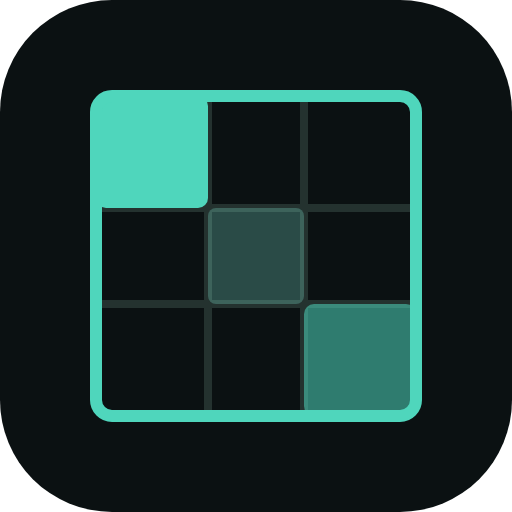
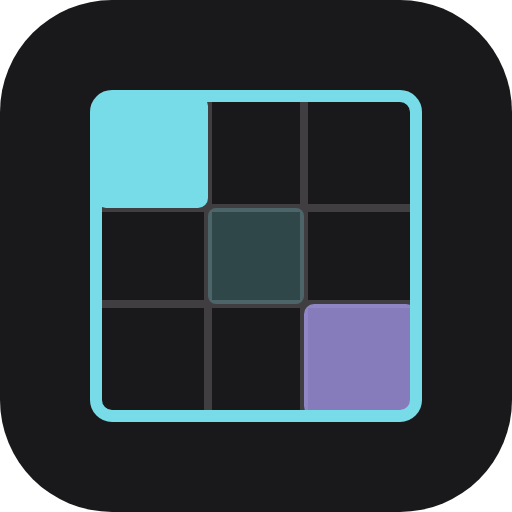
Paleta Monokai Pro, zapisana w jednym miejscu
Interfejs przechodzi z chłodnej zieleni na Monokai Pro: ciepłą, lekko fioletową
ciemność z cyjanem jako akcentem zaznaczenia i uchwytów, różem dla błędów,
pomarańczem dla ostrzeżeń i zielenią dla stanu dobrego. Fiolet dostały obrysy
obiektów bez własnej grafiki, żeby nie myliły się z zaznaczeniem.

Przy okazji naprawiona przyczyna, dla której taka zmiana była ryzykowna: kolory
mieszkały w siedmiu miejscach naraz - tokeny CSS, siedemnaście literałów w
rendererze, manifest, meta strony, ikony PWA i ikony Androida. Teraz jedynym
źródłem jest blok @theme w styles.css, a theme.ts odczytuje te same custom
properties w czasie działania i podaje je Pixi jako liczby. W rendererze zostały
dwa literały: czarna siatka, celowo neutralna wobec każdego tilesetu, i maska
bitowa gid, która kolorem nie jest.

Blok musi być @theme static. Zwykłe @theme wycina tokeny, których nie używa
żadna klasa Tailwinda, i po cichu ukryło --color-shape przed płótnem - kolor
działał tylko z wartości zapasowej w theme.ts.

Dwie usterki znalezione po obejrzeniu zrzutów:

- Podmieniając blok @theme skasowałem definicje --breakpoint-md i
  --breakpoint-wide, przez co cały trójstopniowy układ przestał działać: panel
  miał 240 px zamiast 300 przy szerokości 1400, a etykieta Ctrl K znikła.
  Przywrócone, wszystkie trzy progi zweryfikowane pomiarem.
- Wiersz obrotu obiektu mieścił cztery przyciski i pole liczbowe w jednej
  linii, przez co pole zapadało się do zera. Teraz przyciski są w siatce, a
[…]

Changed region(s): [[0.1562, 0.1562, 0.8438, 0.8438]]

diff --git a/packages/ui/src/render/pixi-renderer.ts b/packages/ui/src/render/pixi-renderer.ts
@@ -5,6 +5,7 @@ import {
   type Anchor, type Box, type HandleId, type Layer, type MapObject, type TileMap,
 } from '@tile-editor/core'
 import type { RenderOptions, TileRenderer } from './renderer'
+import { canvasTheme } from '../theme'
 import { tileObjectAnchor, tilesetOf, type TileSourceIndex } from './tile-source'
 
 /**
@@ -225,11 +226,11 @@ export class PixiTileRenderer implements TileRenderer {
   /** Tiled colours an object layer through an optional `color` attribute. */
   private layerColor(layer: { extra?: Record<string, unknown> }): number {
     const raw = layer.extra?.color
-    if (typeof raw !== 'string') return 0x4fd6bc
+    if (typeof raw !== 'string') return canvasTheme.shape
     const hex = raw.replace('#', '')
     const rgb = hex.length === 8 ? hex.slice(2) : hex
     const value = Number.parseInt(rgb, 16)
-    return Number.isFinite(value) ? value : 0x4fd6bc
+    return Number.isFinite(value) ? value : canvasTheme.shape
   }
 
   /**
@@ -286,7 +287,7 @@ export class PixiTileRenderer implements TileRenderer {
   }
 
   private borrowLabel(): Text {
-    const label = this.labelPool.pop() ?? new Text({ text: '', style: { fontSize: 12, fill: 0xe7edec } })
+    const label = this.labelPool.pop() ?? new Text({ text: '', style: { fontSize: 12, fill: canvasTheme.ink } })
     label.visible = true
     return label
   }
@@ -381,10 +382,10 @@ export class PixiTileRenderer implements TileRenderer {
     this.background.clear()
     const w = map.width * map.tilewidth
     const h = map.height * map.tileheight
-    this.background.rect(0, 0, w, h).fill({ color: 0x0b1112, alpha: 0.85 })
+    this.background.rect(0, 0, w, h).fill({ color: canvasTheme.ground, alpha: 0.85 })
     const width = 1 / options.camera.zoom
     // The map's own edge is always worth showing, grid or not.
-    this.grid.rect(0, 0, w, h).stroke({ color: 0x4fd6bc, width: width * 1.5, alpha: 0.5 })
+    this.grid.rect(0, 0, w, h).stroke({ color: canvasTheme.accent, width: width * 1.5, alpha: 0.5 })
     if (!options.showGrid) return
 
     // A grid drawn at full strength over 16-pixel tiles washes the artwork out,
@@ -427,7 +428,7 @@ export class PixiTileRenderer implements TileRenderer {
       const h = (stamp?.height ?? 1) * map.tileheight
       this.overlay
         .rect(options.hover.x * map.tilewidth, options.hover.y * map.tileheight, w, h)
-        .stroke({ color: 0x4fd6bc, width: line, alpha: 0.9 })
+        .stroke({ color: canvasTheme.accent, width: line, alpha: 0.9 })
     }
 
     if (options.marquee) {
@@ -438,8 +439,8 @@ export class PixiTileRenderer implements TileRenderer {
       const height = (Math.abs(y1 - y0) + 1) * map.tileheight
       this.overlay
         .rect(left, top, width, height)
-        .fill({ color: 0x4fd6bc, alpha: 0.12 })
-        .stroke({ color: 0x4fd6bc, width: line })
+        .fill({ color: canvasTheme.accent, alpha: 0.12 })
+        .stroke({ color: canvasTheme.accent, width: line })
     }
 
     if (options.selectedObjectIds.length > 0) {
@@ -460,8 +461,8 @@ export class PixiTileRenderer implements TileRenderer {
       const { x0, y0, x1, y1 } = options.selectionRect
       this.overlay
         .rect(Math.min(x0, x1), Math.min(y0, y1), Math.abs(x1 - x0), Math.abs(y1 - y0))
-        .fill({ color: 0x4fd6bc, alpha: 0.1 })
-        .stroke({ color: 0x4fd6bc, width: line, alpha: 0.9 })
+        .fill({ color: canvasTheme.accent, alpha: 0.1 })
+        .stroke({ color: canvasTheme.accent, width: line, alpha: 0.9 })
     }
   }
 
@@ -503,7 +504,7 @@ export class PixiTileRenderer implements TileRenderer {
     const first = corners[0]!
     this.overlay.moveTo(first.x, first.y)
     for (const point of corners.slice(1)) this.overlay.lineTo(point.x, point.y)
-    this.overlay.closePath().stroke({ color: 0x4fd6bc, width })
+    this.overlay.closePath().stroke({ color: canvasTheme.accent, width })
     if (!withHandles) return
 
     // The stalk to the rotation handle, so it reads as attached to the box.
@@ -515,21 +516,21 @@ export class PixiTileRenderer implements TileRenderer {
     this.overlay
       .moveTo(topMid.x, topMid.y)
       .lineTo(rotateAt.x, rotateAt.y)
-      .stroke({ color: 0x4fd6bc, width: width * 0.6, alpha: 0.7 })
+      .stroke({ color: canvasTheme.accent, width: width * 0.6, alpha: 0.7 })
 
     const size = width * 3
     for (const handle of handlePositions(box, anchor, this.rotateOffset)) {
       if (handle.id === 'rotate') {
         this.overlay
           .circle(handle.point.x, handle.point.y, size * 0.9)
-          .fill({ color: 0x0b1112 })
-          .stroke({ color: 0x4fd6bc, width })
+          .fill({ color: canvasTheme.ground })
+          .stroke({ color: canvasTheme.accent, width })
         continue
       }
       this.overlay
         .rect(handle.point.x - size, handle.point.y - size, size * 2, size * 2)
-        .fill({ color: 0x0b1112 })
-        .stroke({ color: 0x4fd6bc, width })
+        .fill({ color: canvasTheme.ground })
+        .stroke({ color: canvasTheme.accent, width })
     }
   }
 

diff --git a/packages/ui/src/components/properties-panel.tsx b/packages/ui/src/components/properties-panel.tsx
@@ -12,6 +12,7 @@ import {
 } from '@tile-editor/core'
 import { Button, Empty, Field, Panel, Select, TextInput } from './ui'
 import { useEditor, type PropertyOwner } from '../state/store'
+import { themeColor } from '../theme'
 
 const TYPES: PropertyType[] = ['string', 'int', 'float', 'bool', 'color', 'file']
 
@@ -230,7 +231,9 @@ function PropertyValue({ prop, definition, onChange }: {
     )
   }
   if (prop.type === 'color') {
-    const value = typeof prop.value === 'string' && prop.value ? toHex(prop.value) : '#4fd6bc'
+    // An unset colour opens on the theme's accent rather than a colour written
+    // down a second time.
+    const value = typeof prop.value === 'string' && prop.value ? toHex(prop.value) : accentHex()
     return (
       <div className="flex items-center gap-2">
         <input
@@ -601,13 +604,23 @@ function ObjectHeader({ id }: { id: number }) {
         <Field label="Wysokość"><TextInput type="number" className="num" value={obj.height} onChange={(e) => patch({ height: Number(e.target.value) })} /></Field>
       </div>
       <Field label="Obrót (stopnie)">
-        <div className="flex items-center gap-1">
-          {[0, 90, 180, 270].map((deg) => (
-            <Button key={deg} size="sm" variant="outline" active={obj.rotation === deg} onClick={() => patch({ rotation: deg })}>
-              {deg}°
-            </Button>
-          ))}
-          <TextInput type="number" className="num flex-1" value={obj.rotation} onChange={(e) => patch({ rotation: Number(e.target.value) })} />
+        {/* Four preset buttons and a free field do not fit across a 240px panel;
+            squeezed onto one row the field collapsed to nothing. */}
+        <div className="flex flex-col gap-1.5">
+          <div className="grid grid-cols-4 gap-1">
+            {[0, 90, 180, 270].map((deg) => (
+              <Button key={deg} size="sm" variant="outline" active={obj.rotation === deg} onClick={() => patch({ rotation: deg })}>
+                {deg}°
+              </Button>
+            ))}
+          </div>
+          <TextInput
+            type="number"
+            aria-label="Obrót w stopniach"
+            className="num"
+            value={obj.rotation}
+            onChange={(e) => patch({ rotation: Number(e.target.value) })}
+          />
         </div>
       </Field>
       {obj.gid !== undefined ? (
@@ -776,6 +789,11 @@ function Stat({ label, value }: { label: string; value: string }) {
       <dd className="num text-right text-ink-dim">{value}</dd>
     </>
   )
+}
+
+/** The accent as a #rrggbb string, for inputs that will not take a token. */
+function accentHex(): string {
+  return '#' + themeColor('accent', 0x78dce8).toString(16).padStart(6, '0')
 }
 
 function uniqueName(props: Property[]): string {

diff --git a/packages/ui/src/styles.css b/packages/ui/src/styles.css
@@ -4,28 +4,43 @@
  * Editor palette. Dark-first, because that is where a map editor lives, with a
  * neutral biased slightly toward the accent so nothing reads as flat grey.
  */
-@theme {
-  --color-ground: #0b1112;
-  --color-surface: #121b1c;
-  --color-raised: #182325;
-  --color-hover: #1f2d2f;
-  --color-line: #24322f;
-  --color-line-strong: #33443f;
+/* `static` keeps every token in the output. Tailwind drops unused ones by
+   default, which silently hid --color-shape from the canvas. */
+@theme static {
+  /**
+   * Monokai Pro. A warm, slightly purple dark ramp with six saturated accents,
+   * rather than the cool grey most editors settle on. The neutrals below are
+   * the palette's own; only the three "deep" tones are derived, as backgrounds
+   * for accented chips that have to sit on --color-surface.
+   *
+   * This block is the only place a colour is written down. The canvas reads
+   * these same tokens at runtime through theme.ts, so the WebGL layer and the
+   * DOM cannot drift apart.
+   */
+  --color-ground: #19181a;
+  --color-surface: #2d2a2e;
+  --color-raised: #403e41;
+  --color-hover: #403e41;
+  --color-line: #3b383c;
+  --color-line-strong: #5b595c;
 
-  --color-ink: #e7edec;
-  --color-ink-dim: #a6b5b3;
-  --color-ink-faint: #6f807e;
+  --color-ink: #fcfcfa;
+  --color-ink-dim: #c1c0c0;
+  --color-ink-faint: #939293;
 
-  --color-accent: #4fd6bc;
-  --color-accent-deep: #0f3330;
-  --color-accent-ink: #7ce4cf;
+  --color-accent: #78dce8;
+  --color-accent-deep: #26383c;
+  --color-accent-ink: #a5e9f1;
 
-  --color-danger: #ee8195;
-  --color-danger-deep: #38191f;
-  --color-warn: #e0a552;
-  --color-warn-deep: #31250f;
-  --color-ok: #6fcb86;
-  --color-ok-deep: #122c19;
+  --color-danger: #ff6188;
+  --color-danger-deep: #3e222a;
+  --color-warn: #fc9867;
+  --color-warn-deep: #3b2a21;
+  --color-ok: #a9dc76;
+  --color-ok-deep: #2c3a24;
+
+  /** Outlines for objects with no art of their own, kept apart from selection. */
+  --color-shape: #ab9df2;
 
   /* Three tiers, chosen so a Galaxy Tab S7 keeps the docked layout in both
      orientations and only collapses its rails when turned upright. */

diff --git a/packages/ui/src/theme.ts b/packages/ui/src/theme.ts
@@ -1,0 +1,61 @@
+/**
+ * The canvas draws in WebGL and cannot use CSS, but the palette must not be
+ * written down twice: a second copy is a second thing to forget. These helpers
+ * read the same custom properties the stylesheet defines and hand them to Pixi
+ * as numbers.
+ *
+ * Values are cached after the first read. Call `forgetTheme()` if the tokens
+ * ever change at runtime, which they do not today.
+ */
+const cache = new Map<string, number>()
+
+function parse(value: string): number | undefined {
+  const text = value.trim()
+  if (text.startsWith('#')) {
+    const hex = text.slice(1)
+    const full = hex.length === 3 ? hex.replace(/./g, (c) => c + c) : hex
+    const parsed = Number.parseInt(full.slice(0, 6), 16)
+    return Number.isFinite(parsed) ? parsed : undefined
+  }
+  // Browsers may hand back a resolved rgb() instead of the authored hex.
+  const rgb = /rgba?\(\s*([\d.]+)[,\s]+([\d.]+)[,\s]+([\d.]+)/.exec(text)
+  if (!rgb) return undefined
+  const [r, g, b] = [rgb[1], rgb[2], rgb[3]].map((n) => Math.round(Number(n)))
+  return ((r ?? 0) << 16) | ((g ?? 0) << 8) | (b ?? 0)
+}
+
+/** One palette entry, by the name it has in the stylesheet without the prefix. */
+export function themeColor(token: string, fallback: number): number {
+  const cached = cache.get(token)
+  if (cached !== undefined) return cached
+  const raw =
+    typeof document === 'undefined'
+      ? ''
+      : getComputedStyle(document.documentElement).getPropertyValue(`--color-${token}`)
+  const value = parse(raw) ?? fallback
+  cache.set(token, value)
+  return value
+}
+
+export function forgetTheme(): void {
+  cache.clear()
+}
+
+/**
+ * Fallbacks matter only before the stylesheet has applied, and in tests that
+ * render without a document. They mirror the tokens in styles.css.
+ */
+export const canvasTheme = {
+  get ground(): number {
+    return themeColor('ground', 0x19181a)
+  },
+  get accent(): number {
+    return themeColor('accent', 0x78dce8)
+  },
+  get ink(): number {
+    return themeColor('ink', 0xfcfcfa)
+  },
+  get shape(): number {
+    return themeColor('shape', 0xab9df2)
+  },
+}

diff --git a/packages/ui/index.html b/packages/ui/index.html
@@ -3,7 +3,7 @@
   <head>
     <meta charset="utf-8" />
     <meta name="viewport" content="width=device-width, initial-scale=1, viewport-fit=cover, user-scalable=no" />
-    <meta name="theme-color" content="#0b1112" />
+    <meta name="theme-color" content="#19181a" />
     <meta name="mobile-web-app-capable" content="yes" />
     <meta name="apple-mobile-web-app-status-bar-style" content="black-translucent" />
     <link rel="manifest" href="/manifest.webmanifest" />

diff --git a/README.md b/README.md
@@ -187,6 +187,20 @@ będzie oferowana.
 Offline działa sama powłoka edytora. Pliki projektu czyta lokalny serwer, więc
 bez niego edytor otworzy się, ale nie pokaże map.
 
+## Paleta
+
+Interfejs korzysta z palety **Monokai Pro** — ciepła, lekko fioletowa ciemność
+zamiast chłodnej szarości, z cyjanem jako akcentem zaznaczenia i uchwytów.
+
+Kolory są zapisane **wyłącznie** w `packages/ui/src/styles.css`, w bloku
+`@theme static`. Płótno rysuje w WebGL i nie może użyć CSS-a, więc
+`packages/ui/src/theme.ts` odczytuje te same custom properties w czasie
+działania i podaje je Pixi jako liczby. Dzięki temu warstwa WebGL i DOM nie
+mogą się rozjechać, a zmiana motywu w przyszłości to jeden blok.
+
+`@theme static` jest tu istotne: zwykłe `@theme` wycina tokeny, których żadna
+klasa Tailwinda nie używa, i po cichu ukryło `--color-shape` przed płótnem.
+
 ## Struktura
 
 ```
